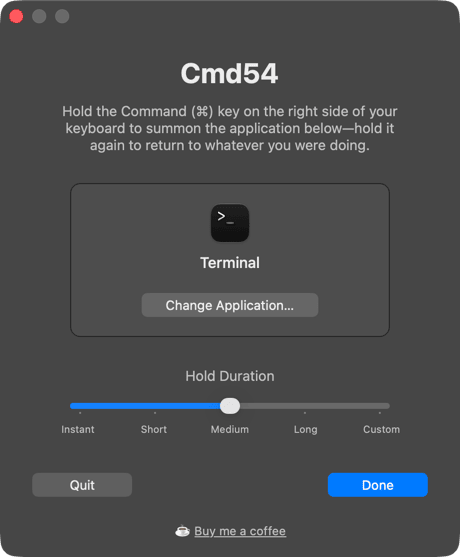
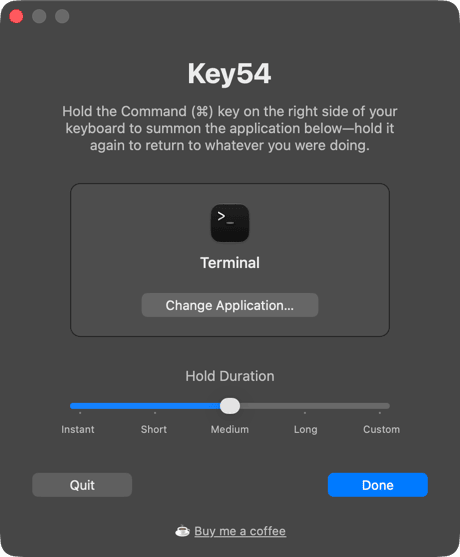
Rename Cmd54 → Key54
Key54 reads cleaner against both the keycode (54) and the tagline
('your right-hand ⌘'): it names the thing as a key, by its number.
Renames the app, bundle ID (com.ethan.key54), entitlements, build
scripts, screenshot tool, release workflow, and README (incl. the new
'your right-hand ⌘' tagline and the tied-in 'The name' section).
Version 1.8.

Changed region(s): [[0.3957, 0.0916, 0.6087, 0.1526]]

diff --git a/main.swift b/main.swift
@@ -92,7 +92,7 @@ class AppDelegate: NSObject, NSApplicationDelegate {
         guard let shot = CGWindowListCreateImage(
             .null, .optionIncludingWindow, CGWindowID(win.windowNumber), .boundsIgnoreFraming) else {
             fputs("screenshot: capture failed — grant Screen Recording permission " +
-                  "to Cmd54 in System Settings → Privacy & Security.\n", stderr)
+                  "to Key54 in System Settings → Privacy & Security.\n", stderr)
             return
         }
         // The capture is in Retina pixels; downsample to the window's logical
@@ -136,7 +136,7 @@ class AppDelegate: NSObject, NSApplicationDelegate {
         }
     }
 
-    /// Called when the settings window closes: returning to Cmd54 only
+    /// Called when the settings window closes: returning to Key54 only
     /// makes sense while the window is up, so forget it as the previous app.
     func settingsClosed() {
         if previousApp?.bundleIdentifier == Bundle.main.bundleIdentifier {
@@ -539,7 +539,7 @@ class SettingsWindow: NSWindow {
 
         // Title
         y -= titleH
-        let titleLabel = NSTextField(labelWithString: "Cmd54")
+        let titleLabel = NSTextField(labelWithString: "Key54")
         titleLabel.frame = NSRect(x: pad, y: y, width: innerW, height: titleH)
         titleLabel.font = .systemFont(ofSize: 28, weight: .bold)
         titleLabel.alignment = .center
@@ -692,7 +692,7 @@ class SettingsWindow: NSWindow {
         coffeeBtn.sizeToFit()
         coffeeBtn.frame = NSRect(x: (contentW - coffeeBtn.frame.width) / 2, y: 16,
                                  width: coffeeBtn.frame.width, height: 20)
-        coffeeBtn.toolTip = "Support Cmd54 on Ko-fi"
+        coffeeBtn.toolTip = "Support Key54 on Ko-fi"
         c.addSubview(coffeeBtn)
 
         contentView = c
@@ -1145,7 +1145,7 @@ let mainMenu = NSMenu()
 let appMenuItem = NSMenuItem()
 mainMenu.addItem(appMenuItem)
 let appMenu = NSMenu()
-appMenu.addItem(withTitle: "Quit Cmd54", action: #selector(NSApplication.terminate(_:)), keyEquivalent: "q")
+appMenu.addItem(withTitle: "Quit Key54", action: #selector(NSApplication.terminate(_:)), keyEquivalent: "q")
 appMenuItem.submenu = appMenu
 app.mainMenu = mainMenu
 

diff --git a/make_icon.swift b/make_icon.swift
@@ -1,7 +1,7 @@
 #!/usr/bin/swift
 import AppKit
 
-// Generates every icon asset for Cmd54 in one pass: the AppIcon.iconset (all
+// Generates every icon asset for Key54 in one pass: the AppIcon.iconset (all
 // sizes) and the README header icon. The icon *is* a MacBook-style keycap —
 // a raised top surface with backlit ⌘ + "command" legends — drawn full-bleed,
 // then fitted into the standard macOS icon-grid squircle (824/1024 + margin),

diff --git a/README.md b/README.md
@@ -1,10 +1,12 @@
-<img src="screenshots/icon_readme.png" width="128" alt="Cmd54 icon">
+<img src="screenshots/icon_readme.png" width="128" alt="Key54 icon">
 
-# Cmd54
+# Key54
+
+*Your right-hand ⌘.*
 
 **Hold the Command (⌘) key on the right side of your keyboard to summon one chosen app — hold it again to switch back to whatever you were doing.**
 
-Cmd54 isn't another app library switcher, launcher, or palette. It doesn't try to replace ⌘-Tab, Mission Control, or Spotlight, and it doesn't pile on the features that tools like Raycast, Alfred, LaunchBar, rcmd, or Monarch already do well. It does exactly one thing: a single, dedicated key for the *one* app you reach for constantly.
+Key54 isn't another app library switcher, launcher, or palette. It doesn't try to replace ⌘-Tab, Mission Control, or Spotlight, and it doesn't pile on the features that tools like Raycast, Alfred, LaunchBar, rcmd, or Monarch already do well. It does exactly one thing: a single, dedicated key for the *one* app you reach for constantly.
 
 There's nothing to launch, no fuzzy search, no list of shortcuts to memorize, and no chords. You pick the app once; after that it's pure muscle memory — like a push-to-talk button for your terminal, notes, browser, or chat. It claims the otherwise-dead *gesture* of holding the right ⌘ key, so quick taps and normal right-⌘ shortcuts keep working exactly as before (unless you opt into the Instant preset) — you give up nothing.
 
@@ -14,21 +16,21 @@ It's fast, tiny (2.3 MB), uses almost zero system resources, and stays out of th
 
 ## Screenshot
 
-![Cmd54 settings window](screenshots/settings.png?v=5)
+![Key54 settings window](screenshots/settings.png?v=5)
 
 ## Download
 
-**Download the latest [Cmd54.dmg](https://github.com/grokcodile/cmd54/releases/latest/download/Cmd54.dmg) — or see [all releases](https://github.com/grokcodile/cmd54/releases/latest).** *This link always points to the most recent release build.*
+**Download the latest [Key54.dmg](https://github.com/grokcodile/key54/releases/latest/download/Key54.dmg) — or see [all releases](https://github.com/grokcodile/key54/releases/latest).** *This link always points to the most recent release build.*
 
-Open the `.dmg` and drag **Cmd54** into your `Applications` folder.
+Open the `.dmg` and drag **Key54** into your `Applications` folder.
 
 > **Apple Silicon only.** The released build is arm64; it won't run on Intel Macs. Intel users can [build from source](#build).
 >
 > **First launch:** the build isn't notarized yet, so macOS will warn that it's from an unidentified developer. You only need to clear this once, in any of these ways:
 >
-> - **macOS 13–14:** right-click (or Control-click) **Cmd54 → Open**, then click **Open** in the dialog.
+> - **macOS 13–14:** right-click (or Control-click) **Key54 → Open**, then click **Open** in the dialog.
 > - **macOS 15 (Sequoia) and later:** double-click it (it gets blocked), then go to **System Settings → Privacy & Security**, scroll down, and click **Open Anyway**.
-> - **Terminal (any version):** `xattr -dr com.apple.quarantine /Applications/Cmd54.app`
+> - **Terminal (any version):** `xattr -dr com.apple.quarantine /Applications/Key54.app`
 >
 > Prefer no warning at all? [Build from source](#build) — a locally built app isn't quarantined and just runs.
 
@@ -44,7 +46,7 @@ Open the `.dmg` and drag **Cmd54** into your `Applications` folder.
 
 ## Usage Examples
 
-Pick the one app you're *always* dropping into and back out of, bind it with Cmd54, and forget the keyboard gymnastics.
+Pick the one app you're *always* dropping into and back out of, bind it with Key54, and forget the keyboard gymnastics.
 
 - **Developer** — bind the terminal of your choice (Terminal.app, Warp, Ghostty, iTerm). It's one key away from anywhere: `brew install` something mid-task, check a deploy script, fire off a quick `git` command — then one key back to what you were doing. And it's the **full app**, with all its tabs and sessions, not a stripped-down dropdown drawer, global hotkey window, or limited notch gimmick.
 
@@ -54,13 +56,13 @@ Pick the one app you're *always* dropping into and back out of, bind it with Cmd
 
 - **Manager** — bind your email or chat client (Mail, Messages, Slack). Glance at a message and reply, then drop straight back into focus — without getting sucked in and losing the thread of deeper work.
 
-Whatever you assign as your **Cmd54**, the pattern is the same: **summon → do the thing → dismiss** — without ever breaking stride or wondering which shortcut to press.
+Whatever you assign as your **Key54**, the pattern is the same: **summon → do the thing → dismiss** — without ever breaking stride or wondering which shortcut to press.
 
 ## Accessibility
 
-Cmd54 needs only a **single key, held** — the right ⌘ key on its own, no multi-finger chord, no rapid tapping, no sequence to remember. For anyone who finds combinations like ⌘-Space or ⌘-Tab hard to reach or hold, holding one key to bring an app forward — and holding it again to go back — can be a genuinely simpler way to move between apps.
+Key54 needs only a **single key, held** — the right ⌘ key on its own, no multi-finger chord, no rapid tapping, no sequence to remember. For anyone who finds combinations like ⌘-Space or ⌘-Tab hard to reach or hold, holding one key to bring an app forward — and holding it again to go back — can be a genuinely simpler way to move between apps.
 
-The timing is forgiving, too: a quick or accidental press does nothing, and you can let go any time before the ring fills to cancel. Cmd54 was built as a convenience, but the same no-chord, no-reach interaction turns out to be an accessibility aid — and honestly, a little easier for everyone.
+The timing is forgiving, too: a quick or accidental press does nothing, and you can let go any time before the ring fills to cancel. Key54 was built as a convenience, but the same no-chord, no-reach interaction turns out to be an accessibility aid — and honestly, a little easier for everyone.
 
 ## Hold Duration
 
@@ -68,7 +70,7 @@ The slider in settings controls how long you hold the right ⌘ key before the s
 
 | Preset | Hold to trigger | Behavior |
 | --- | --- | --- |
-| **Instant** | A press — no hold | Completely hands the right ⌘ key to Cmd54: no hold, no delay, no animation — the moment you press, you've switched. Quick taps and right-⌘ shortcuts trigger it too, so pick this only if you're dedicating the key. |
+| **Instant** | A press — no hold | Completely hands the right ⌘ key to Key54: no hold, no delay, no animation — the moment you press, you've switched. Quick taps and right-⌘ shortcuts trigger it too, so pick this only if you're dedicating the key. |
 | **Short** | ~0.5 s | A snappy switch that still leaves normal right-⌘ shortcuts usable — anything shorter than the half-second dead-zone is ignored. No charge ring; the app's icon simply appears and dissolves into the switch. |
 | **Medium** *(default)* | ~0.9 s (0.5 s dead-zone + 0.4 s charge) | The best mix: enough delay to cancel the switch early just by letting go, a smooth transition that supports a more graceful mental shift between tasks, and still quick and responsive. |
 | **Long** | ~1.3 s (0.7 s dead-zone + 0.6 s charge) | An even more generous, deliberate task-switching experience — maximum time to watch the ring fill and change your mind. |
@@ -86,25 +88,25 @@ The slider in settings controls how long you hold the right ⌘ key before the s
 bash install.sh
 ```
 
-This compiles `main.swift`, generates the app icon (`make_icon.swift`), ad-hoc code-signs, installs to `/Applications/Cmd54.app`, and launches it. On first run, grant Accessibility permission when prompted.
+This compiles `main.swift`, generates the app icon (`make_icon.swift`), ad-hoc code-signs, installs to `/Applications/Key54.app`, and launches it. On first run, grant Accessibility permission when prompted.
 
 > Optional: install [`pngquant`](https://pngquant.org) to shrink the generated icon.
 
 ## First run
 
-1. Launch **Cmd54** from `Applications`. Its window opens.
-2. Grant **Accessibility** permission when prompted — System Settings → Privacy & Security → Accessibility → enable Cmd54. This lets it detect the right Command key.
+1. Launch **Key54** from `Applications`. Its window opens.
+2. Grant **Accessibility** permission when prompted — System Settings → Privacy & Security → Accessibility → enable Key54. This lets it detect the right Command key.
 3. Click **Change Application…** and pick the app you want bound to the right ⌘ key.
 4. Optionally pick a **Hold Duration** preset (how long you hold before it triggers) — or choose **Custom** and dial in your own timings.
-5. Click **Done**. Cmd54 keeps running in the background (and starts automatically at login).
+5. Click **Done**. Key54 keeps running in the background (and starts automatically at login).
 
-To change the app or settings later, just open Cmd54 again from `Applications`.
+To change the app or settings later, just open Key54 again from `Applications`.
 
 
 ## Uninstall
 
-1. Quit Cmd54 (open it and click **Quit**, or `killall Cmd54`).
-2. Drag **Cmd54** from `Applications` to the Trash. This also removes its login item.
+1. Quit Key54 (open it and click **Quit**, or `killall Key54`).
+2. Drag **Key54** from `Applications` to the Trash. This also removes its login item.
 3. Optionally remove its entry under System Settings → Privacy & Security → Accessibility.
 
 ## Releases
@@ -133,14 +135,14 @@ automatically:
 
 ## How it works
 
-Cmd54 installs a `CGEventTap` that watches `flagsChanged` events for the right Command key (keycode 54). A sustained hold past the configured duration toggles the chosen app via `NSWorkspace`; full-screen and window-state edge cases are handled with the Accessibility API.
+Key54 installs a `CGEventTap` that watches `flagsChanged` events for the right Command key (keycode 54). A sustained hold past the configured duration toggles the chosen app via `NSWorkspace`; full-screen and window-state edge cases are handled with the Accessibility API.
 
 ## The name
 
 **54** is the macOS keycode for the right Command key — the exact key this app
 claims. (You can see it in the source: the event tap watches for `keycode 54`.)
-So the name isn't a number plucked from thin air; it's the app's whole job
-written as a coordinate.
+So **Key54** is literally that — the key, named by its number; the app's whole
+job written as a coordinate.
 
 There's a second layer, too. The ⌘ symbol is `U+2318`, which Unicode officially
 names **"PLACE OF INTEREST SIGN."** Susan Kare borrowed the glyph — a looped
@@ -154,7 +156,7 @@ This app uses a global event tap and controls other applications, which is incom
 
 ## Support
 
-Cmd54 is free and open source. If it makes your work a little better, you can support its development:
+Key54 is free and open source. If it makes your work a little better, you can support its development:
 
 - ❤️ [GitHub Sponsors](https://github.com/sponsors/grokcodile)
 - ☕ [Ko-fi](https://ko-fi.com/grokcodile)